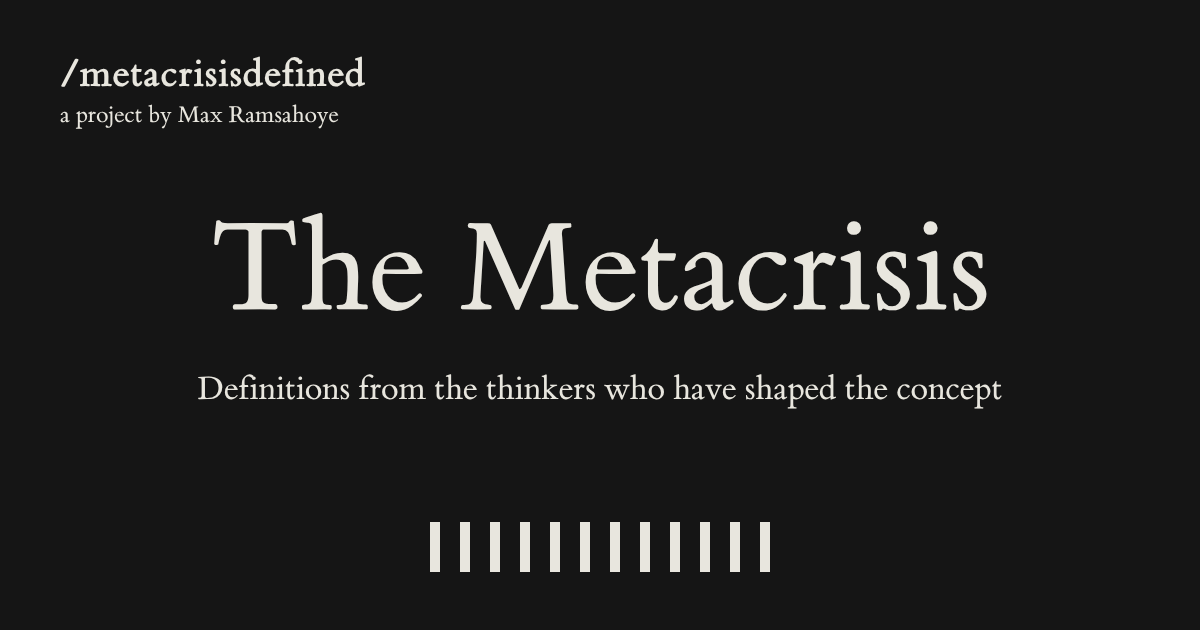
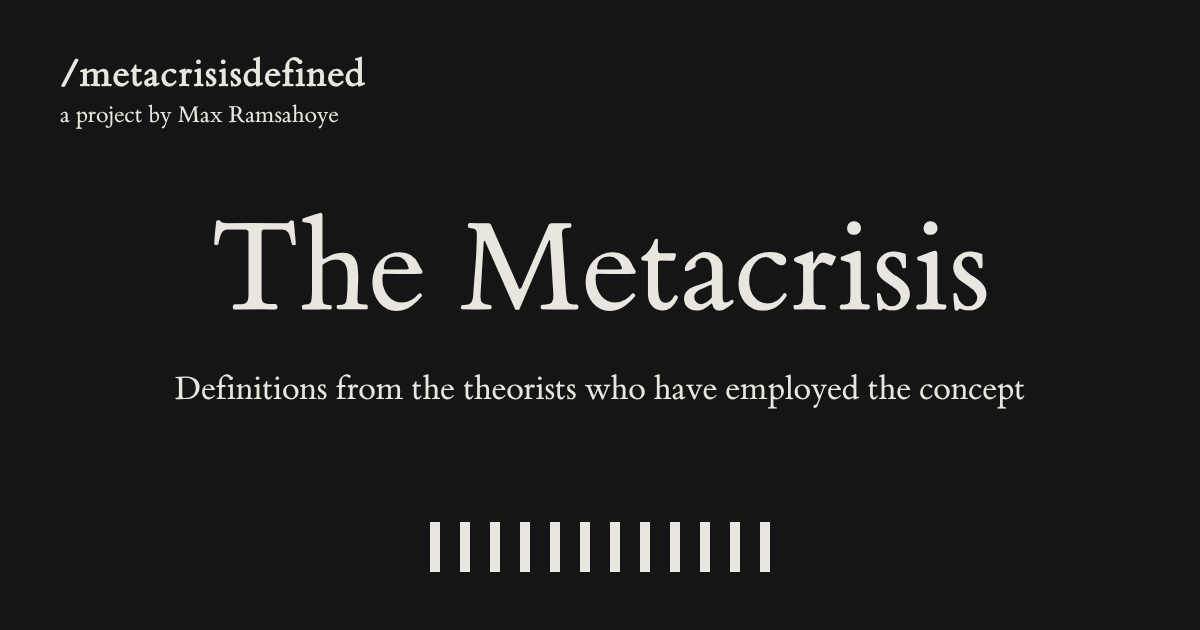
Theorists who have employed the concept
The About entry, the page description, the link preview tags and the
preview card image now all use the new wording.

Claude-Session: https://claude.ai/code/session_01HEA71oyAt7Ua4fGHALp2ih

Changed region(s): [[0.1233, 0.573, 0.8633, 0.6635]]

diff --git a/index.html b/index.html
@@ -4,21 +4,21 @@
 <meta charset="utf-8">
 <meta name="viewport" content="width=device-width, initial-scale=1">
 <title>The Metacrisis</title>
-<meta name="description" content="Definitions of the metacrisis from the thinkers who have shaped the concept, read side by side. A project by Max Ramsahoye.">
+<meta name="description" content="Definitions of the metacrisis from the theorists who have employed the concept, read side by side. A project by Max Ramsahoye.">
 <!-- Preview card for links shared on social media and in messaging apps -->
 <meta property="og:type" content="website">
 <meta property="og:site_name" content="/metacrisisdefined">
 <meta property="og:title" content="The Metacrisis">
-<meta property="og:description" content="Definitions of the metacrisis from the thinkers who have shaped the concept, read side by side. A project by Max Ramsahoye.">
+<meta property="og:description" content="Definitions of the metacrisis from the theorists who have employed the concept, read side by side. A project by Max Ramsahoye.">
 <meta property="og:url" content="https://maxramsahoye.github.io/metacrisisdefined/">
 <meta property="og:image" content="https://maxramsahoye.github.io/metacrisisdefined/preview-card.png">
 <meta property="og:image:width" content="1200">
 <meta property="og:image:height" content="630">
-<meta property="og:image:alt" content="/metacrisisdefined: The Metacrisis. Definitions from the thinkers who have shaped the concept.">
+<meta property="og:image:alt" content="/metacrisisdefined: The Metacrisis. Definitions from the theorists who have employed the concept.">
 <meta property="og:locale" content="en_GB">
 <meta name="twitter:card" content="summary_large_image">
 <meta name="twitter:title" content="The Metacrisis">
-<meta name="twitter:description" content="Definitions of the metacrisis from the thinkers who have shaped the concept, read side by side. A project by Max Ramsahoye.">
+<meta name="twitter:description" content="Definitions of the metacrisis from the theorists who have employed the concept, read side by side. A project by Max Ramsahoye.">
 <meta name="twitter:image" content="https://maxramsahoye.github.io/metacrisisdefined/preview-card.png">
 <meta name="theme-color" content="#151515">
 <link rel="canonical" href="https://maxramsahoye.github.io/metacrisisdefined/">
@@ -708,7 +708,7 @@ var GROUPS = {
 var ABOUT = {
   name: 'About this project',
   width: '52rem',
-  text: '<i>/metacrisisdefined</i> gathers <strong>definitions of the metacrisis from the thinkers who have shaped the concept</strong>, so that they can be read side by side. The term is used in many ways, and its meaning is still contested. Placed together, the definitions show where they converge and where they part: some trace the metacrisis to the <i>external</i> structures of civilisation, some to its <i>inner</i> life, and some hold the two together. Select a name to read a definition in its author’s own words.'
+  text: '<i>/metacrisisdefined</i> gathers <strong>definitions of the metacrisis from the theorists who have employed the concept</strong>, so that they can be read side by side. The term is used in many ways, and its meaning is still contested. Placed together, the definitions show where they converge and where they part: some trace the metacrisis to the <i>external</i> structures of civilisation, some to its <i>inner</i> life, and some hold the two together. Select a name to read a definition in its author’s own words.'
 };
 
 var THINKERS = [
